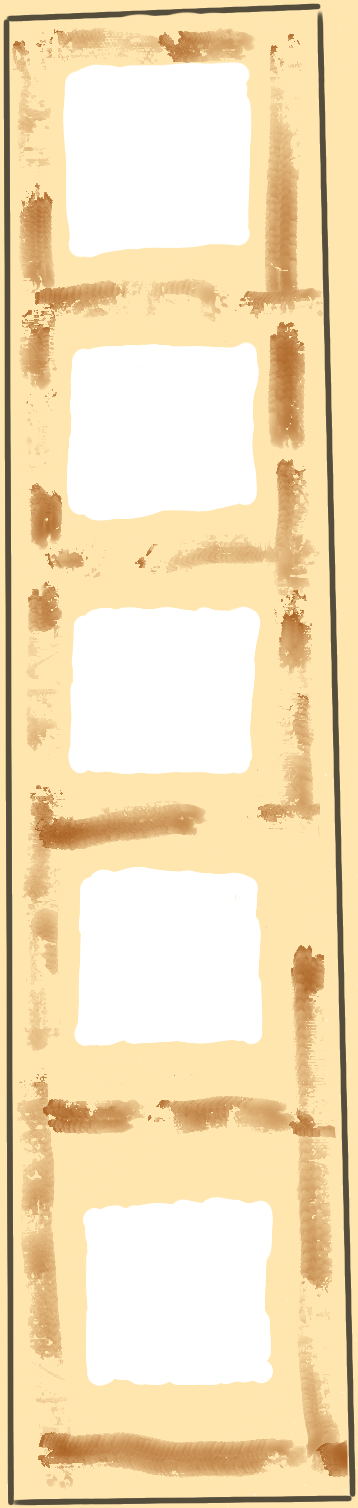
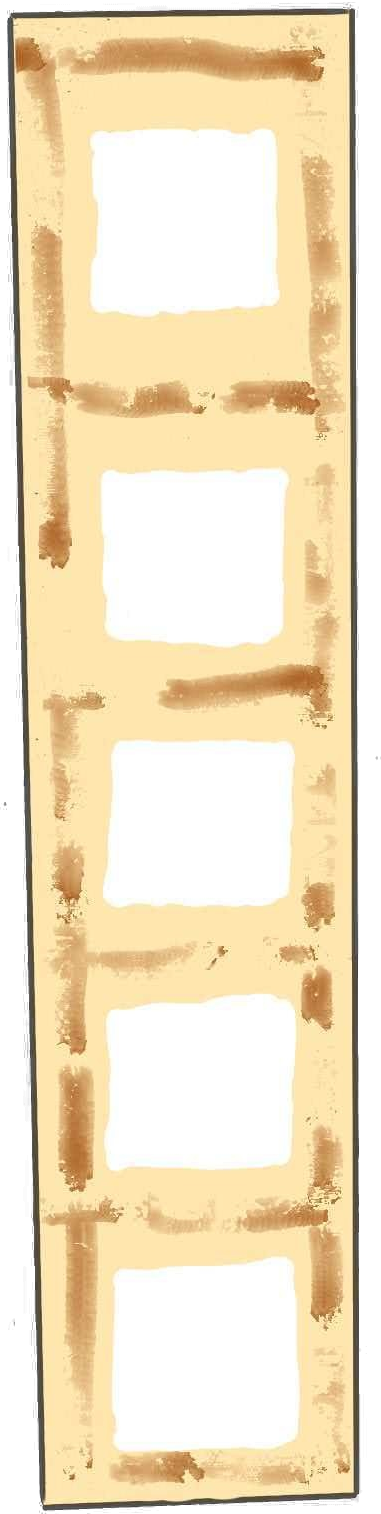
feat: 更新小刀图标与五格道具栏

diff --git a/更新日志.md b/更新日志.md
@@ -137,6 +137,7 @@
 - 补全 4:3 与角色镜头的响应式：顶部物品栏下移角色、底部角标跟随舞台；增加屏幕适配回归清单。
 - 画面改为 cover 铺满：宽屏舞台+右栏边缘到边缘，4:3 满屏+顶部栏，竖屏满屏+底栏；HUD 约束在可见区域。
 - 道具栏改为右侧 1×5 固定格：按获得顺序自上而下，使用后只清空当前格，其他道具不位移；无图标道具显示文字。
+- 更新小刀图标与道具栏框：裁掉黑底/多余画布，小刀改为透明斜放图标，面板槽位按新图重新对齐。
 - 参考 v0.3 文档重写序章，逐步收敛到“上岸与入门”四个动作。
 - 序章 Word 稿更新到 v0.8：床上醒来 → 开窗看海 → 找硬币付船费 → 时间锁进旅馆。
 - 第一章从“101 谜题优先稿”调整为“113 服务叙事”。
